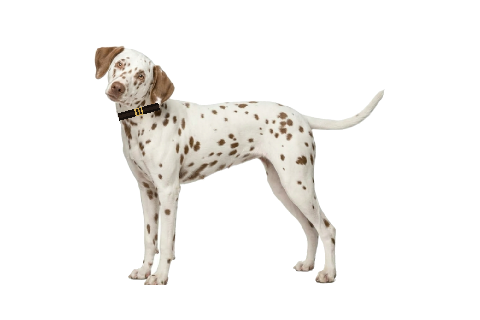
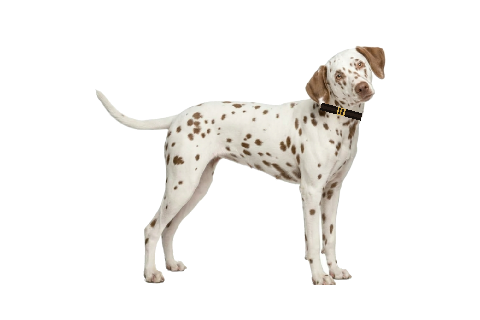
Fix Sandy stop pose facing direction to match left-to-right travel vector

Changed region(s): [[0.1875, 0.125, 0.8125, 0.9062]]

diff --git a/assets/js/dalmatian-guardians.js b/assets/js/dalmatian-guardians.js
@@ -36,7 +36,7 @@
       this.lastTimestamp = 0;
 
       // Cache buster for ultra-clear high-DPI assets
-      const v = 'v=crystal_clear_sandy_color_belt_v17';
+      const v = 'v=crystal_clear_sandy_facing_v18';
 
       // Load 6-frame running sequences
       // Patch has anatomically separate sequences: right-facing (right eye patch) and left-facing (no eye patch)
